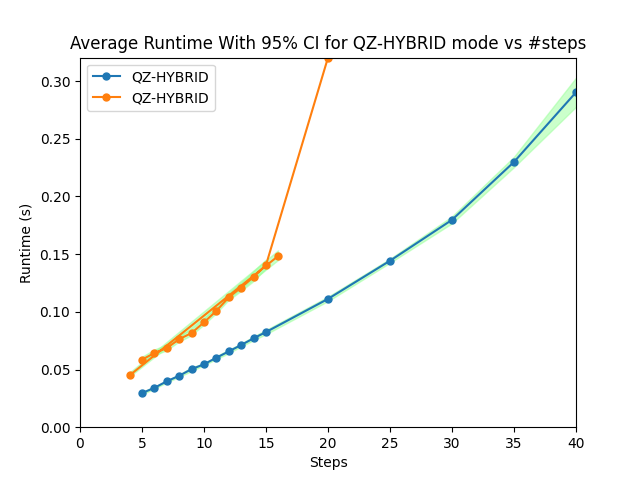
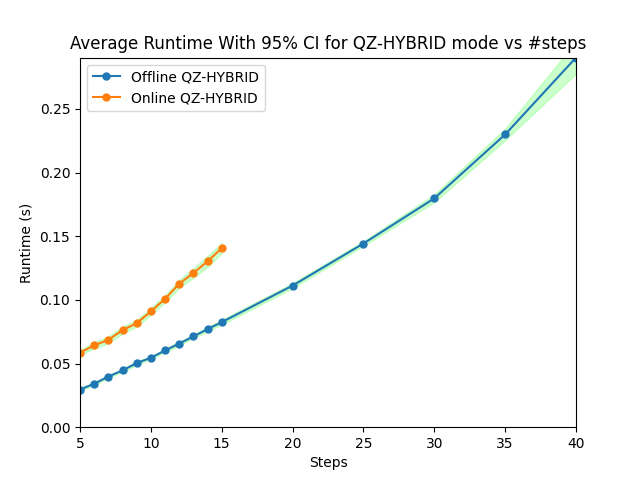
all the graphs

diff --git a/reachability/scripts/graph_maker.py b/reachability/scripts/graph_maker.py
@@ -33,7 +33,6 @@ csv_input_2 = "raw/online.csv"
 
 
 import pdb
-pdb.set_trace()
 columns = ["time", "steps", "mode", "verts"]
 timing_data = pd.read_csv(csv_input, sep=",", names=columns) 
 timing_data["env"] = pd.Series(["offline"] * len(timing_data), index=timing_data.index)
@@ -44,7 +43,10 @@ timing_data = pd.concat([timing_data, timing_data_2])
 print(timing_data[:6])
 
 modes = timing_data['mode'].unique()
-steps = timing_data['steps'].unique()
+online_steps = timing_data.loc[timing_data['env']=="online"]['steps'].unique()
+offline_steps = timing_data.loc[timing_data['env']=="offline"]['steps'].unique()
+steps = offline_steps
+online_steps = [s for s in online_steps if s in offline_steps]
 envs = timing_data['env'].unique()
 conf_interval_prop = .95
 
@@ -59,19 +61,21 @@ for m in modes:
     timing_data_avg = []
     offline_rows = timing_data.loc[(timing_data['mode'] == m) & (timing_data['env'] == "offline")]
     online_rows = timing_data.loc[(timing_data['mode'] == m) & (timing_data['env'] == "online")]
-    pdb.set_trace()
     for s in steps:
         offline_full_data = offline_rows.loc[(offline_rows['steps'] == s) & (offline_rows['verts'] == 0)]
         offline_verts_data = offline_rows.loc[(offline_rows['steps'] == s) & (offline_rows['verts'] == 1)]
+        online_full_data = online_rows.loc[(online_rows['steps'] == s) & (online_rows['verts'] == 0)]
+
+        online_avg = 0
+        online_std = 0
+        if s <= max(online_steps):
+            online_avg = online_full_data['time'].mean()
+            online_std = online_full_data['time'].std()
         
         offline_full_avg = offline_full_data['time'].mean()
         offline_full_std = offline_full_data['time'].std()
         offline_verts_avg = offline_verts_data['time'].mean()
         offline_verts_std = offline_verts_data['time'].std()
-
-        online_full_data = online_rows.loc[(online_rows['steps'] == s) & (online_rows['verts'] == 0)]
-        online_avg = online_full_data['time'].mean()
-        online_std = online_full_data['time'].std()
 
         #print(f"{full_std}")
         #full_isnormal = scipy.stats.normaltest(full_data['time'])
@@ -92,7 +96,6 @@ for m in modes:
         #plt.hist(full_data['time'], bins=20)
         #plt.savefig(f"profiler/timing_dists/dist_{m}_{s}.png")
         timing_stats.loc[len(timing_stats)] = [s, m] + stats_list
-        print(timing_stats.loc[len(timing_stats)-1])
     
     best_dists.append(dists)
 
@@ -113,24 +116,43 @@ for mode in modes:
     data = mode_data[mode]['full_avg']
     plt.plot(steps, data, marker='o', markersize='5', linestyle='solid', label=mode)
 plt.axis([
-    0, max(steps),
+    min(steps), max(steps),
     0, timing_stats['full_avg'].max()
 ])
 plt.legend(loc='best')
 plt.savefig("profiler/offline_avg_unified.png")
 
+plt.clf()
 plt.title("Online execution time by steps for runtime modes")
 plt.ylabel("Execution Time (s)")
 plt.xlabel("Steps")
 for mode in modes:
-    data = mode_data[mode]['online_avg']
-    plt.plot(steps, data, marker='o', markersize='5', linestyle='solid', label=mode)
+    data = mode_data[mode]['online_avg'][:len(online_steps)]
+    plt.plot(online_steps, data, marker='o', markersize='5', linestyle='solid', label=mode)
 plt.axis([
-    0, max(steps),
+    min(steps), max(online_steps),
     0, timing_stats['online_avg'].max()
 ])
 plt.legend(loc='best')
 plt.savefig("profiler/online_avg_unified.png")
+
+plt.clf()
+fig, ax = plt.subplots()
+ax.set_title("Execution time by steps for runtime modes")
+ax.set_ylabel("Execution Time (s)")
+ax.set_xlabel("Steps")
+for mode in modes:
+    data = mode_data[mode]['online_avg'][:len(online_steps)]
+    for_color = ax.plot(online_steps, data, marker='o', markersize='5', linestyle='solid', label=f"Online {mode}")
+    print(ax)
+    data = mode_data[mode]['full_avg']
+    ax.plot(steps, data, marker='>', markersize='5', linestyle='solid', label=f"Offline {mode}", color=for_color[0].get_color())
+ax.axis([
+    min(steps), max(online_steps),
+    0, timing_stats['online_avg'].max()
+])
+ax.legend(loc='best')
+plt.savefig("profiler/all_avg_unified.png")
 
 CI_pval = .95
 CI_zscore = st.norm.pdf(CI_pval)
@@ -141,36 +163,49 @@ for mode in modes:
     plt.xlabel("Steps")
     offline_data = mode_data[mode]['full_avg']
     offline_std = mode_data[mode]['full_std']
-    online_data = mode_data[mode]['online_avg']
-    online_std = mode_data[mode]['online_std']
+    online_data = mode_data[mode]['online_avg'][:len(online_steps)]
+    online_std = mode_data[mode]['online_std'][:len(online_steps)]
 
-    plt.plot(steps, offline_data, marker= 'o', markersize='5', linestyle='solid', label=mode)
-    plt.plot(steps, online_data, marker= 'o', markersize='5', linestyle='solid', label=mode)
+    plt.plot(steps, offline_data, marker= 'o', markersize='5', linestyle='solid', label=f"Offline {mode}")
+    plt.plot(steps[:len(online_data)], online_data, marker= 'o', markersize='5', linestyle='solid', label=f"Online {mode}")
     plt.fill_between(steps, offline_data-offline_std*CI_zscore, offline_data+offline_std*CI_zscore, color=[(.6,1,.6,.5)])
-    plt.fill_between(steps, online_data-online_std*CI_zscore, online_data+online_std*CI_zscore, color=[(.6,1,.6,.5)])
-
+    plt.fill_between(online_steps, online_data-online_std*CI_zscore, online_data+online_std*CI_zscore, color=[(.6,1,.6,.5)])
     plt.axis([
-        0, max(steps),
+        min(steps), max(steps),
         0, max(online_data.max(), offline_data.max())
     ])
     plt.legend(loc='best')
     plt.savefig(f"profiler/avg_{mode}_CI.png")
 
 plt.clf()
-plt.title("Standard Deviation between trial execution time by steps for runtime modes")
+plt.title("Offline Stdev between execution time by steps for runtime modes")
 plt.ylabel("Standard Deviation (s)")
 plt.xlabel("Steps")
 for mode in modes:
     data = mode_data[mode]["full_std"]
-    pdb.set_trace()
     plt.plot(steps, data, marker='o', markersize='5', linestyle='solid', label=mode)
 plt.axis([
-    0, max(steps),
+    min(steps), max(steps),
     0, data.max()
 ])
 
 plt.legend(loc='best')
-plt.savefig("profiler/std_unified_singleaxis.png")
+plt.savefig("profiler/offline_std_unified.png")
+
+plt.clf()
+plt.title("Offline Stdev between execution time by steps for runtime modes")
+plt.ylabel("Standard Deviation (s)")
+plt.xlabel("Steps")
+for mode in modes:
+    data = mode_data[mode]["online_std"][:len(online_steps)]
+    plt.plot(steps[:len(online_steps)], data, marker='o', markersize='5', linestyle='solid', label=mode)
+plt.axis([
+    min(steps), max(steps),
+    0, data.max()
+])
+
+plt.legend(loc='best')
+plt.savefig("profiler/online_std_unified.png")
 
 
 plt.clf()
@@ -181,7 +216,7 @@ for mode in modes:
     verts_fractions = mode_data[mode]['verts_avg']/mode_data[mode]['full_avg']
     plt.plot(steps, verts_fractions, marker='o', markersize='5', linestyle='solid', label=mode)
 plt.axis([
-    0, max(steps),
+    min(steps), max(steps),
     .6, 1,
 ])
 
